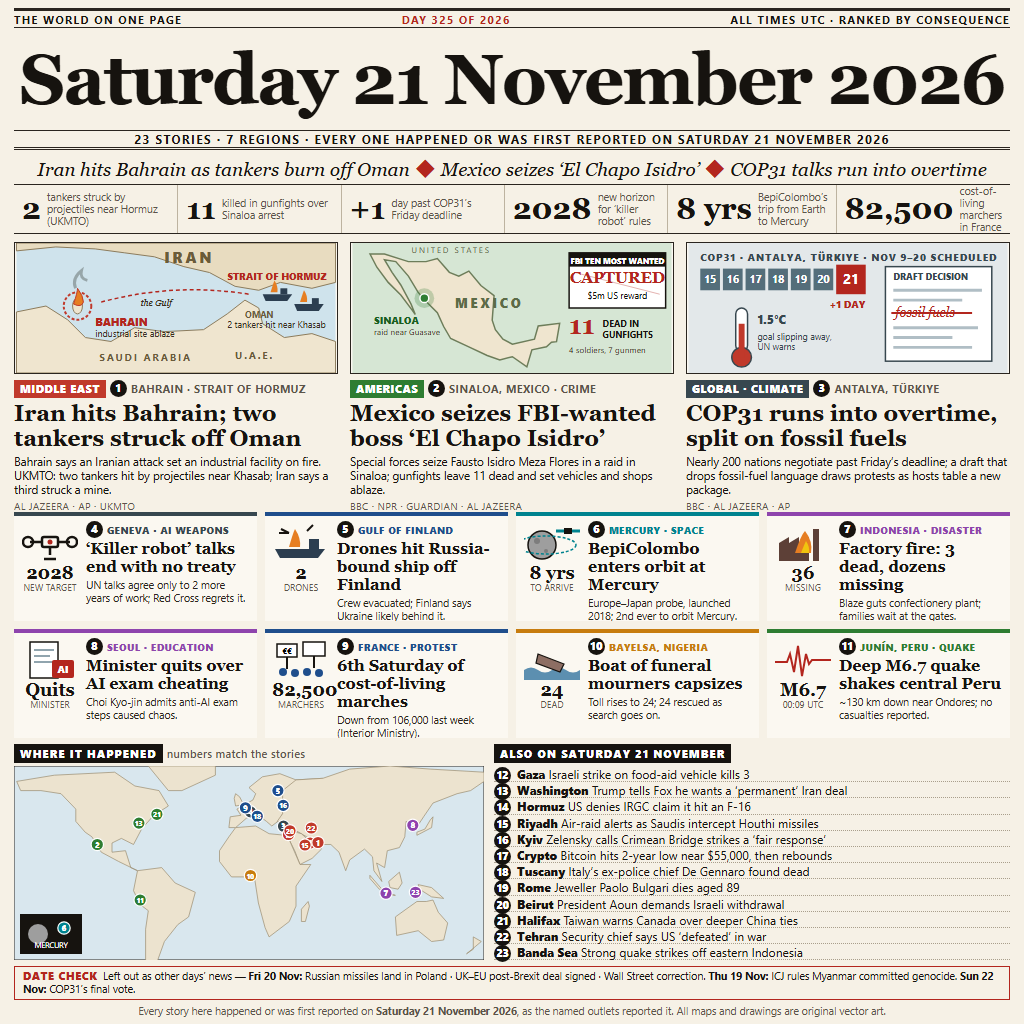
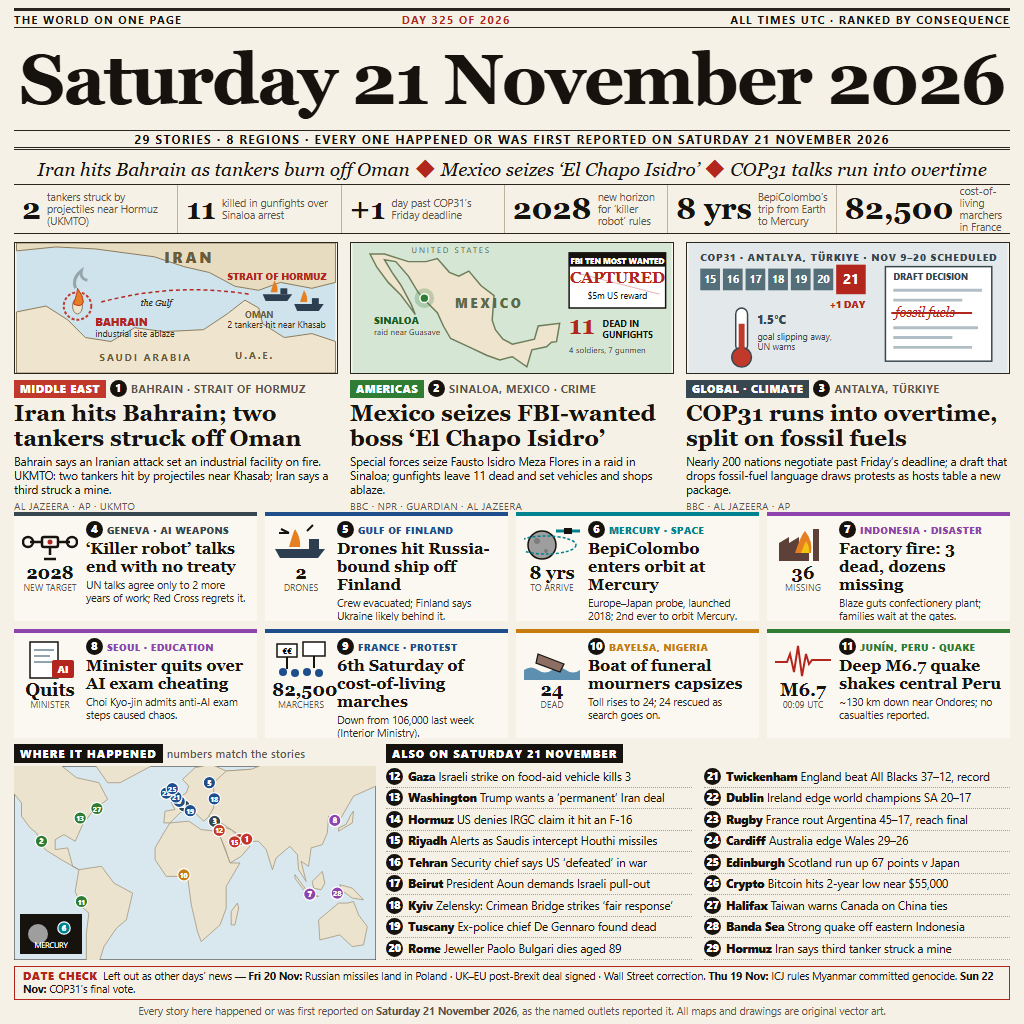
v2: 29 stories, two-column also-list, tighter map

Changed region(s): [[0.0, 0.7188, 0.9688, 0.9375]]

diff --git a/src/page.html b/src/page.html
@@ -58,11 +58,12 @@
 
   /* map + list */
   #maphead, #listhead { top: 746px; font-size: 11px; font-weight: 800; letter-spacing: .1em; }
-  #maphead { left: 14px; } #listhead { left: 494px; }
+  #maphead { left: 14px; } #listhead { left: 386px; }
   .hd { background: var(--ink); color: #fff; padding: 2px 6px; }
   #map { left: 14px; top: 766px; }
-  #list { left: 494px; top: 766px; width: 516px; }
-  .li { display: flex; gap: 6px; align-items: baseline; font-size: 12px; line-height: 14px; padding: 1px 0; height: 16.2px; border-bottom: 1px dotted #a99f8c; white-space: nowrap; }
+  #list { left: 386px; top: 766px; width: 624px; display: grid; grid-template-columns: 1fr 1fr; grid-auto-flow: column;
+          grid-template-rows: repeat(9, 21.5px); column-gap: 12px; }
+  .li { display: flex; gap: 5px; align-items: center; font-size: 11.5px; line-height: 13px; border-bottom: 1px dotted #a99f8c; white-space: nowrap; overflow: hidden; }
   .li .s { margin-left: auto; font-size: 9px; color: var(--mute); letter-spacing: .04em; }
   .li .num { flex: 0 0 17px; margin: 0; }
   .li b { font-weight: 800; white-space: nowrap; }
@@ -76,7 +77,7 @@
 
 <div id="top" class="abs"><span>THE WORLD ON ONE PAGE</span><span class="red">DAY 325 OF 2026</span><span>ALL TIMES UTC · RANKED BY CONSEQUENCE</span></div>
 <div id="date" class="abs serif">Saturday 21 November 2026</div>
-<div id="sub" class="abs">23 STORIES · 7 REGIONS · EVERY ONE HAPPENED OR WAS FIRST REPORTED ON SATURDAY 21 NOVEMBER 2026</div>
+<div id="sub" class="abs">29 STORIES · 8 REGIONS · EVERY ONE HAPPENED OR WAS FIRST REPORTED ON SATURDAY 21 NOVEMBER 2026</div>
 <div id="lead" class="abs serif">Iran hits Bahrain as tankers burn off Oman<b>◆</b>Mexico seizes ‘El Chapo Isidro’<b>◆</b>COP31 talks run into overtime</div>
 
 <div id="stats" class="abs">
@@ -257,22 +258,28 @@
 </div>
 
 <div id="maphead" class="abs"><span class="hd">WHERE IT HAPPENED</span> <span style="font-weight:600;color:var(--mute);letter-spacing:.02em">numbers match the stories</span></div>
-<svg id="map" class="abs" width="470" height="194" viewBox="0 0 470 194"></svg>
+<svg id="map" class="abs" width="362" height="194" viewBox="0 0 362 194"></svg>
 
 <div id="listhead" class="abs"><span class="hd">ALSO ON SATURDAY 21 NOVEMBER</span></div>
 <div id="list" class="abs">
   <div class="li"><span class="num">12</span><span><b>Gaza</b> Israeli strike on food-aid vehicle kills 3</span></div>
-  <div class="li"><span class="num">13</span><span><b>Washington</b> Trump tells Fox he wants a ‘permanent’ Iran deal</span></div>
+  <div class="li"><span class="num">13</span><span><b>Washington</b> Trump wants a ‘permanent’ Iran deal</span></div>
   <div class="li"><span class="num">14</span><span><b>Hormuz</b> US denies IRGC claim it hit an F-16</span></div>
-  <div class="li"><span class="num">15</span><span><b>Riyadh</b> Air-raid alerts as Saudis intercept Houthi missiles</span></div>
-  <div class="li"><span class="num">16</span><span><b>Kyiv</b> Zelensky calls Crimean Bridge strikes a ‘fair response’</span></div>
-  <div class="li"><span class="num">17</span><span><b>Crypto</b> Bitcoin hits 2-year low near $55,000, then rebounds</span></div>
-  <div class="li"><span class="num">18</span><span><b>Tuscany</b> Italy’s ex-police chief De Gennaro found dead</span></div>
-  <div class="li"><span class="num">19</span><span><b>Rome</b> Jeweller Paolo Bulgari dies aged 89</span></div>
-  <div class="li"><span class="num">20</span><span><b>Beirut</b> President Aoun demands Israeli withdrawal</span></div>
-  <div class="li"><span class="num">21</span><span><b>Halifax</b> Taiwan warns Canada over deeper China ties</span></div>
-  <div class="li"><span class="num">22</span><span><b>Tehran</b> Security chief says US ‘defeated’ in war</span></div>
-  <div class="li"><span class="num">23</span><span><b>Banda Sea</b> Strong quake strikes off eastern Indonesia</span></div>
+  <div class="li"><span class="num">15</span><span><b>Riyadh</b> Alerts as Saudis intercept Houthi missiles</span></div>
+  <div class="li"><span class="num">16</span><span><b>Tehran</b> Security chief says US ‘defeated’ in war</span></div>
+  <div class="li"><span class="num">17</span><span><b>Beirut</b> President Aoun demands Israeli pull-out</span></div>
+  <div class="li"><span class="num">18</span><span><b>Kyiv</b> Zelensky: Crimean Bridge strikes ‘fair response’</span></div>
+  <div class="li"><span class="num">19</span><span><b>Tuscany</b> Ex-police chief De Gennaro found dead</span></div>
+  <div class="li"><span class="num">20</span><span><b>Rome</b> Jeweller Paolo Bulgari dies aged 89</span></div>
+  <div class="li"><span class="num">21</span><span><b>Twickenham</b> England beat All Blacks 37–12, record</span></div>
+  <div class="li"><span class="num">22</span><span><b>Dublin</b> Ireland edge world champions SA 20–17</span></div>
+  <div class="li"><span class="num">23</span><span><b>Rugby</b> France rout Argentina 45–17, reach final</span></div>
+  <div class="li"><span class="num">24</span><span><b>Cardiff</b> Australia edge Wales 29–26</span></div>
+  <div class="li"><span class="num">25</span><span><b>Edinburgh</b> Scotland run up 67 points v Japan</span></div>
+  <div class="li"><span class="num">26</span><span><b>Crypto</b> Bitcoin hits 2-year low near $55,000</span></div>
+  <div class="li"><span class="num">27</span><span><b>Halifax</b> Taiwan warns Canada on China ties</span></div>
+  <div class="li"><span class="num">28</span><span><b>Banda Sea</b> Strong quake off eastern Indonesia</span></div>
+  <div class="li"><span class="num">29</span><span><b>Hormuz</b> Iran says third tanker struck a mine</span></div>
 </div>
 
 <div id="check" class="abs"><span class="rk">DATE CHECK</span> &nbsp;Left out as other days’ news — <b>Fri 20 Nov:</b> Russian missiles land in Poland · UK–EU post-Brexit deal signed · Wall Street correction. <b>Thu 19 Nov:</b> ICJ rules Myanmar committed genocide. <b>Sun 22 Nov:</b> COP31’s final vote.</div>
@@ -280,7 +287,7 @@
 
 <script>
 // Stylised world map: hand-traced continent outlines in lon/lat, projected equirectangular.
-const W = 470, H = 194, LON0 = -170, LON1 = 180, LAT0 = 76, LAT1 = -50;
+const W = 362, H = 194, LON0 = -130, LON1 = 160, LAT0 = 70, LAT1 = -46;
 const px = (lon, lat) => [((lon - LON0) / (LON1 - LON0)) * W, ((LAT0 - lat) / (LAT0 - LAT1)) * H];
 const land = [
   [[-168,66],[-140,70],[-95,72],[-80,63],[-62,60],[-55,50],[-66,44],[-75,35],[-81,25],[-90,29],[-97,26],[-97,20],[-87,21],[-83,10],[-78,8],[-92,14],[-105,20],[-112,30],[-117,33],[-124,40],[-124,48],[-135,58],[-150,60],[-165,60]],
@@ -300,8 +307,8 @@ const land = [
 const pins = [
   [1,50.5,26.0,'#c0392b'],[1,56.4,26.3,'#c0392b'],[2,-108.0,25.0,'#2e7d32'],[3,30.7,36.9,'#37474f'],[4,6.1,46.2,'#37474f'],
   [5,26.5,60.0,'#1f4e8c'],[7,107.0,-6.6,'#8e44ad'],[8,127.0,37.5,'#8e44ad'],[9,2.35,48.85,'#1f4e8c'],[10,6.1,4.9,'#c77c0e'],
-  [11,-76.0,-11.0,'#2e7d32'],[12,34.4,31.5,'#c0392b'],[13,-77.0,38.9,'#2e7d32'],[15,46.7,24.7,'#c0392b'],[16,30.5,50.4,'#1f4e8c'],
-  [18,11.2,43.3,'#1f4e8c'],[20,35.5,33.9,'#c0392b'],[21,-63.6,44.6,'#2e7d32'],[22,51.4,35.7,'#c0392b'],[23,129.0,-6.0,'#8e44ad']
+  [11,-76.0,-11.0,'#2e7d32'],[12,34.4,31.5,'#c0392b'],[13,-77.0,38.9,'#2e7d32'],[15,46.7,24.7,'#c0392b'],[18,30.5,50.4,'#1f4e8c'],
+  [19,11.2,43.3,'#1f4e8c'],[21,-0.3,51.45,'#1f4e8c'],[22,-8,53.8,'#1f4e8c'],[25,-3.2,56.5,'#1f4e8c'],[27,-63.6,44.6,'#2e7d32'],[28,129.0,-6.0,'#8e44ad']
 ];
 // Fit the masthead date to the page width (996px between the 14px margins).
 const dateEl = document.getElementById('date');

diff --git a/README.md b/README.md
@@ -6,7 +6,7 @@
 
 The world's news of Saturday 21 November 2026 on one front page: Iran's strike on Bahrain and the tankers hit off Oman,
 Mexico's capture of "El Chapo Isidro", COP31 in overtime, the Geneva "killer robot" talks, BepiColombo reaching
-Mercury and 18 more stories, each checked against the date and placed on a map.
+Mercury, the weekend's rugby and more: 29 stories from 8 regions, each checked against the date and placed on a map.
 
 - `src/page.html`: the layout, hand-written HTML/SVG (maps and icons are original vector drawings)
 - `src/render.mjs`: renders the page to `entry.png` (1024×1024) with headless Chrome
